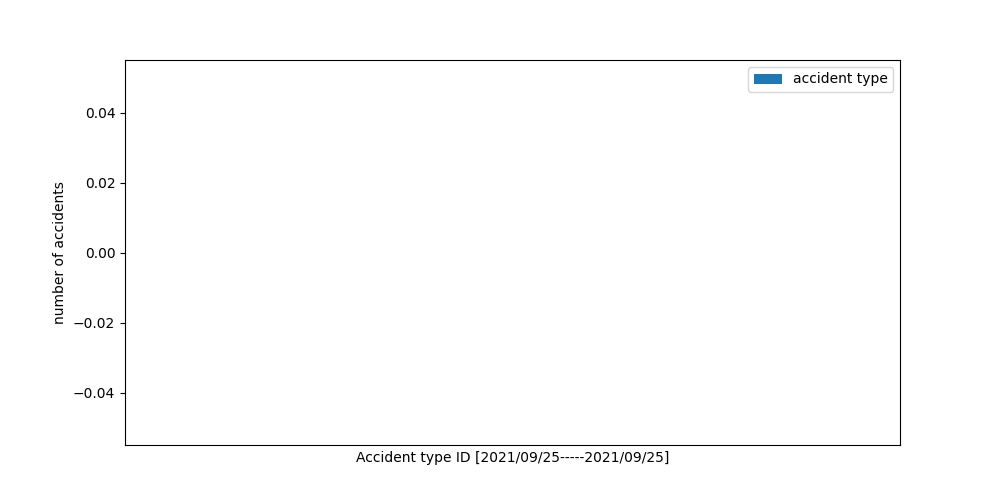
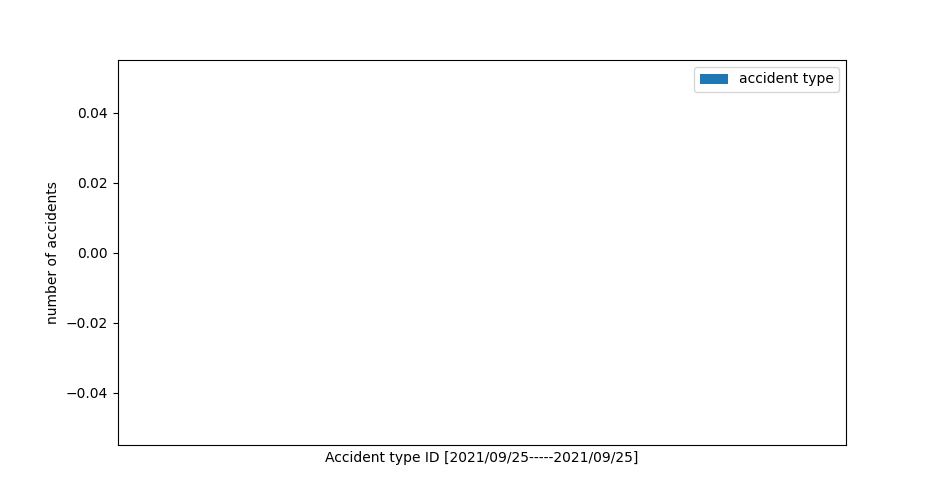
change the type window size
change bar char size to 940

diff --git a/carAccidentAnalysisSystem.py b/carAccidentAnalysisSystem.py
@@ -30,10 +30,6 @@ def getColNameList():
     return names
 """calculate the total number of records"""
 def data_rows_count(rows):
-       # con = connect()
-       # cur=con.cursor()
-       # cur.execute("SELECT * FROM crash")
-       # rows=cur.fetchall()
        i=0
        for r in rows:
            i+=1
@@ -44,7 +40,6 @@ class MyApp(wx.App):
         self.InitFrame()
     def InitFrame(self):
         frame = MyFrame(parent=None,title="Car accident data analysis system",pos=(20,40),size=(1240,700),)
-        # frame.Show()
         frame.setFrame(frame)
 class MyFrame(wx.Frame):
     def __init__(self,parent, title, pos,size):
@@ -78,8 +73,6 @@ class mainPanel(wx.Panel):
     def initiatePicture(self, imgName):
         image_name = imgName
         img = wx.Image(image_name, wx.BITMAP_TYPE_PNG)
-
-        # img = img.Scale(1200,500)
         self.imageCtrl.SetBitmap(wx.BitmapFromImage(img))
         self.imageCtrl.Refresh()
         self.Refresh()
@@ -91,13 +84,6 @@ class mainPanel(wx.Panel):
         sel_date = evt.GetDate()
         self.eDate = sel_date.Format("%Y/%m/%d")
         print(self.eDate)
-    def dbSelect(self):
-        connection = sqlite3.connect("carCrash.sqlite")
-        cursor = connection.cursor()
-        cursor.execute("SELECT * from crash where ACCIDENT_TYPE == 'Struck animal' ")
-        result = cursor.fetchall()
-        print(result)
-        connection.close()
     def onSearch(self, event):
         self.dbSelect()
         print(self.sDate, self.eDate)
@@ -143,9 +129,6 @@ class HomePanel(mainPanel):
         super().__init__(parent=parent)
         self.InitForm(True,"All accidents related to the accident type")
 
-        # self.grid = Grid(self)
-        # self.mainSizer.Add(self.grid, 1, wx.LEFT | wx.TOP | wx.GROW)
-         # This is to create the grid with same rows as database.
         self.grid_1 = Grid(self)
         self.grid_1.CreateGrid(0, 65)
         self.grid_1.EnableEditing(False)
@@ -196,8 +179,6 @@ class HomePanel(mainPanel):
         plt.plot(t, s)
         plt.ylabel('co2')
         plt.xlabel('year')
-        # plt.show()
-        #plt.savefig()
 
     def onSearch(self, event):
         testRows = self.grid_1.GetNumberRows()
@@ -227,10 +208,7 @@ class AccidentPanel(mainPanel):
     def __init__(self,parent):
         super().__init__(parent=parent)
         self.InitForm(False,"The amount of accidents per hour of the day(on average)")
-        # self.figure = Figure()
-        # self.axes = self.figure.add_subplot(111)
-        # self.canvas = FigureCanvas(self,-1,self.figure)
-        # self.mainSizer.Add(self.canvas, 1, wx.LEFT | wx.TOP | wx.GROW)
+
         img = wx.EmptyImage(1200, 500)
         img.Replace(0, 0, 0, 255, 255, 255)
         self.imageCtrl = wx.StaticBitmap(self, wx.ID_ANY, wx.BitmapFromImage(img))
@@ -294,15 +272,7 @@ class AccidentPanel(mainPanel):
 
         plt.savefig('accident.png', dpi=100)
         self.initiatePicture('accident.png')
-        # image_name = 'accident.png'
-        # img = wx.Image(image_name, wx.BITMAP_TYPE_PNG)
-        #
-        # # img = img.Scale(1200,500)
-        # self.imageCtrl.SetBitmap(wx.BitmapFromImage(img))
-        # self.imageCtrl.Refresh()
-        # self.Refresh()
 
-        # plt.show()
 class AlcoholPanel(mainPanel):
     def __init__(self,parent):
         super().__init__(parent=parent)
@@ -311,7 +281,6 @@ class AlcoholPanel(mainPanel):
         img.Replace(0, 0, 0, 255, 255, 255)
         self.imageCtrl = wx.StaticBitmap(self,wx.ID_ANY,wx.BitmapFromImage(img))
         self.mainSizer.Add(self.imageCtrl,0,wx.LEFT | wx.TOP | wx.GROW)
-        # self.panel.mainSizer.Add(self.panel.imageCtrl, 0, wx.ALL | wx.CENTER, 5)
 
         self.SetSizer(self.mainSizer)
         self.mainSizer.Fit(self)
@@ -340,7 +309,6 @@ class AlcoholPanel(mainPanel):
             a = a +1
         for r in yesResult:
             dateDict[r[0]] = r[1]
-            # dateDict[r[1]] = dateDict.get(r[1], 0) + 1
         cursor.execute(
             " select accident_date  from crash  where alcoholtime='No' and accident_date between ? and ? group by accident_date",
             (self.sDate, self.eDate))
@@ -348,7 +316,7 @@ class AlcoholPanel(mainPanel):
         noAchDateDict = dict()
         for r in noResult:
             noAchDateDict[r[0]] = 0
-        # dateDict.update(noAchDateDict)
+
         print(noAchDateDict)
         for key in noAchDateDict.keys():
             if key not in dateDict.keys():
@@ -361,7 +329,7 @@ class AlcoholPanel(mainPanel):
 
 
         connection.close()
-        # xValues = list(dateDict.keys())
+
         xValues = dList
         print(xValues)
         yValues = list(sortedDict.values())
@@ -375,19 +343,12 @@ class AlcoholPanel(mainPanel):
 
         plt.savefig('alcohol.png',dpi=100)
         self.initiatePicture('alcohol.png')
-        # image_name = 'alcohol.png'
-        # img = wx.Image(image_name,wx.BITMAP_TYPE_PNG)
-        #
-        # # img = img.Scale(1200,500)
-        # self.imageCtrl.SetBitmap(wx.BitmapFromImage(img))
-        # self.imageCtrl.Refresh()
-        # self.Refresh()
-        # # plt.show()
+
 class TypePanel(mainPanel):
     def __init__(self,parent):
         super().__init__(parent=parent)
         self.InitForm(False,"Overall number of accidents for each accident type")
-        img = wx.EmptyImage(930, 500)
+        img = wx.EmptyImage(940, 500)
         img.Replace(0, 0, 0, 255, 255, 255)
         self.imageCtrl = wx.StaticBitmap(self, wx.ID_ANY, wx.BitmapFromImage(img))
 
@@ -399,7 +360,7 @@ class TypePanel(mainPanel):
         self.grid_1.SetColLabelValue(0, 'Type_ID')
         self.grid_1.SetColSize(0, 50)
         self.grid_1.SetColLabelValue(1, 'Accident Type')
-        self.grid_1.SetColSize(1, 230)
+        self.grid_1.SetColSize(1, 220)
         self.grid_1.SetInitialSize((500,500))
         self.grid_1.HideRowLabels()
         self.drawTable()
@@ -409,7 +370,7 @@ class TypePanel(mainPanel):
 
         self.SetSizer(self.mainSizer)
         self.mainSizer.Fit(self)
-        self.initiatePicture('3.png')
+        # self.initiatePicture('3.png')
         self.Layout()
     def drawTable(self):
         connection = connect()
@@ -425,7 +386,6 @@ class TypePanel(mainPanel):
         self.grid_1.AppendRows(r)
 
         for i in range(0, r):
-            # for j in range(0, 1):
             cell = result[i]
             a = i+1
             self.grid_1.SetCellValue(i, 0, str(a))
@@ -458,22 +418,11 @@ class TypePanel(mainPanel):
         plt.ylabel("number of accidents")
 
         figure = plt.gcf()
-        figure.set_size_inches(10, 5)
+        figure.set_size_inches(9.4, 5)
 
         plt.savefig('type.png', dpi=100)
 
         self.initiatePicture('type.png')
-        # image_name = 'type.png'
-        # img = wx.Image(image_name, wx.BITMAP_TYPE_PNG)
-        #
-        # # img = img.Scale(1200,500)
-        # self.imageCtrl.SetBitmap(wx.BitmapFromImage(img))
-        # self.imageCtrl.Refresh()
-        # self.Refresh()
-
-
-
-
 if __name__ == "__main__":
     app = MyApp()
     app.MainLoop()
